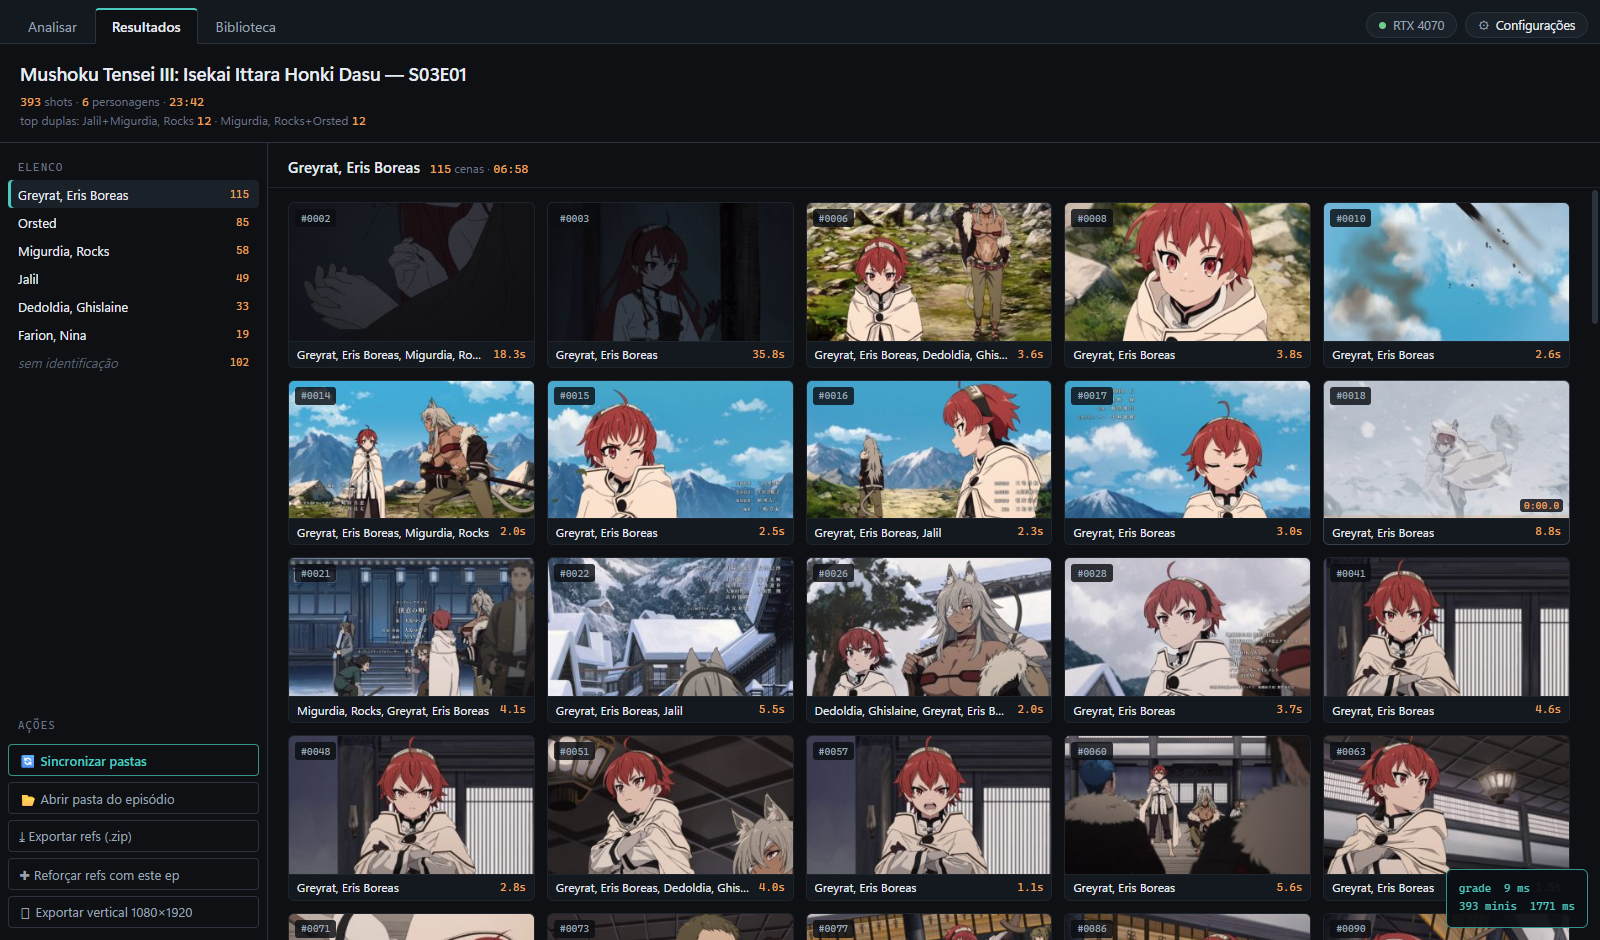
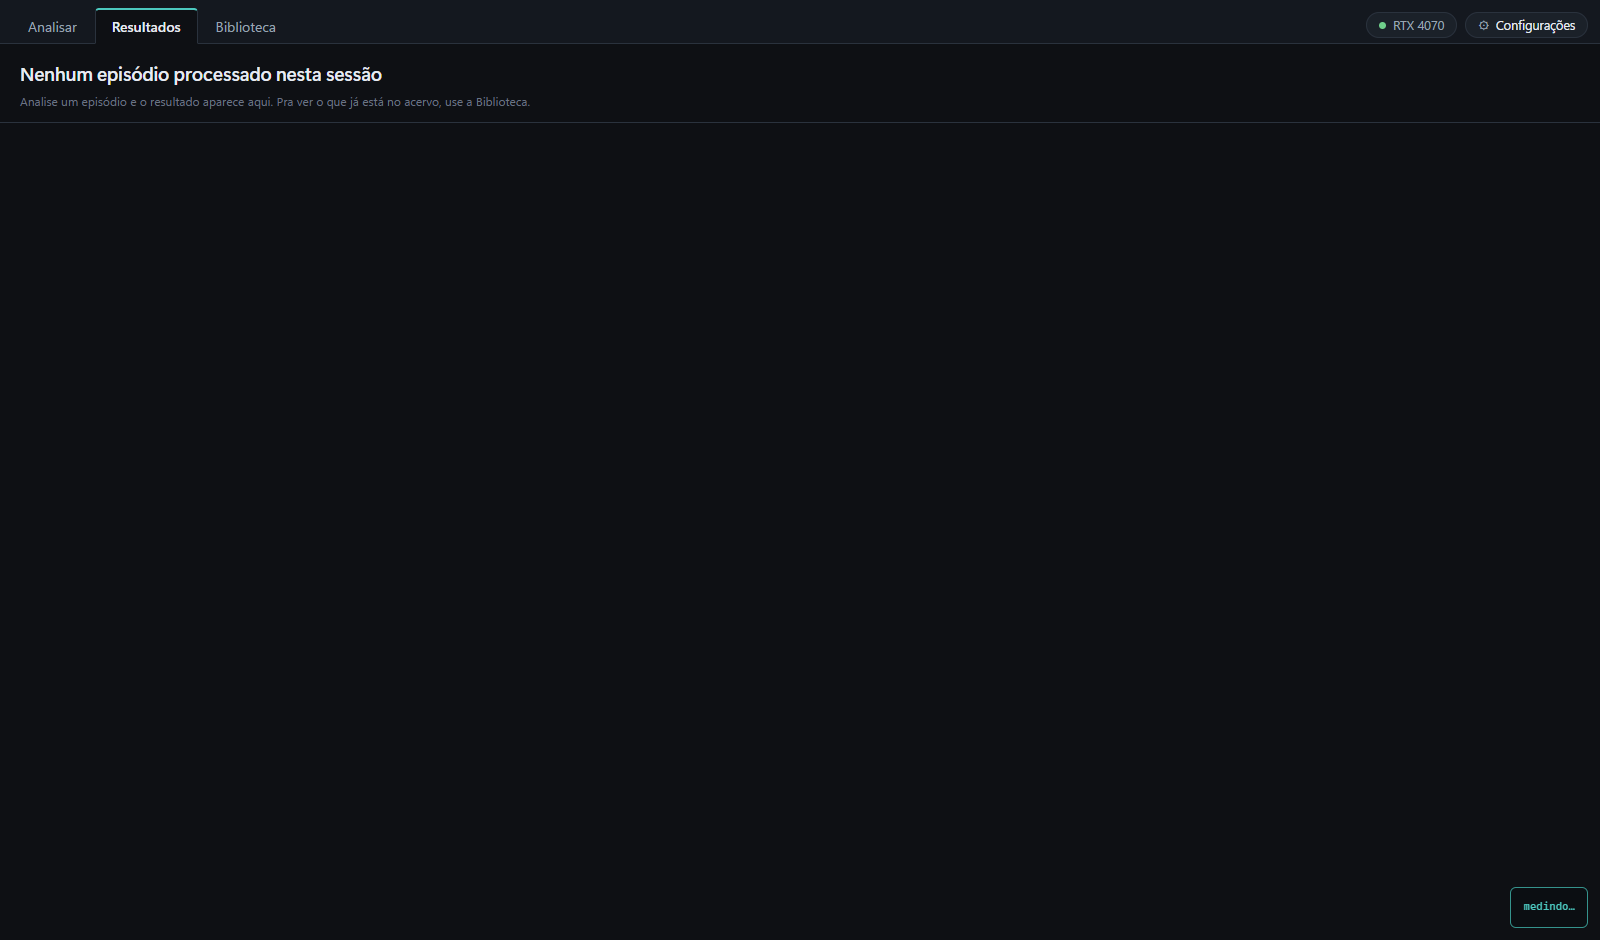
Tres coisas que o Levi viu abrindo o app de verdade
Eu tinha testado tudo por script e nao tinha aberto o app como usuario. As
tres so aparecem assim.

1. RESULTADOS VINHA CHEIA sem ter analisado nada. Eu fiz a aba espelhar o
   episodio aberto na Biblioteca, e isso esta errado: Resultados e da SESSAO
   — mostra o que ESTA execucao produziu. Abrir o app e achar a aba cheia faz
   o usuario duvidar do que esta vendo. Agora diz "Nenhum episodio processado
   nesta sessao" e so se enche quando uma analise TERMINA aqui.

2. ANALISAR VINHA COM PROGRESSO FALSO — 64%, "Cortando cenas 214 de 331",
   tempos, dez etapas. Era o desenho da maquete, que mostra a tela no meio de
   uma analise, e eu deixei os valores no HTML. Agora nasce vazia
   ("Aguardando", "--:--"), o Cancelar so existe durante a analise e a lista
   de etapas so aparece quando ha etapa acontecendo.

3. A ARVORE NAO RECOLHIA. Com um anime da pra viver sem; a Biblioteca existe
   pra guardar VARIOS, e ai uma lista que nunca fecha vira uma parede de
   episodios. Anime e temporada viraram pastas de verdade. Com mais de um
   anime a arvore comeca fechada; com um so, aberta — nao faz sentido
   esconder o unico.

   Detalhe que quase escapou: fechar o anime tem que sumir com os EPISODIOS
   das temporadas dele, nao so com as temporadas. Medido: 4 nos visiveis ->
   1 com o anime fechado -> 4 de volta.

diff --git a/app/ui/web/interface.html b/app/ui/web/interface.html
@@ -173,7 +173,9 @@ body{background:var(--bg);color:var(--txt);font-family:var(--sans);font-size:13p
     color:var(--dim);gap:6px}
 .no:hover{background:var(--surface)}
 .no.viva{background:var(--surface-2);color:var(--txt);box-shadow:inset 3px 0 0 var(--accent)}
-.no .seta{width:9px;color:var(--off);font-size:9px}
+.no .seta{width:9px;color:var(--off);font-size:9px;flex:0 0 9px}
+.no.ramo{cursor:default}
+.no.ramo:hover .seta{color:var(--accent)}
 .no .conta{margin-left:auto;font-family:var(--mono);font-size:11px;color:var(--time)}
 .no.n1{padding-left:10px}.no.n2{padding-left:24px}.no.n3{padding-left:38px}
 /* pasta ausente: itálico apagado, mas continua na lista — quem apagou
@@ -499,24 +501,24 @@ body{background:var(--bg);color:var(--txt);font-family:var(--sans);font-size:13p
         <div class="prog-esq">
           <div class="prog-topo">
             <div class="oque">
-              <span class="titulo" id="p_titulo">Cortando cenas</span>
-              <span class="conta" id="p_conta"><b>214</b> de <b>331</b></span>
+              <span class="titulo" id="p_titulo">Aguardando</span>
+              <span class="conta" id="p_conta"></span>
             </div>
-            <span class="pct" id="p_pct">64%</span>
+            <span class="pct" id="p_pct">—</span>
           </div>
-          <div class="barra"><i style="width:64%"></i><i class="pale" style="width:8%"></i></div>
+          <div class="barra"><i style="width:0%"></i><i class="pale" style="width:0%"></i></div>
           <div class="tempos">
-            <div><span class="r">decorrido</span><span class="v">02:41</span></div>
-            <div><span class="r">resta ~</span><span class="v amb">01:29</span></div>
-            <div><span class="r">ritmo</span><span class="v">1.3 cena/s</span></div>
+            <div><span class="r">decorrido</span><span class="v">--:--</span></div>
+            <div><span class="r">resta ~</span><span class="v amb">--:--</span></div>
+            <div><span class="r">ritmo</span><span class="v">—</span></div>
           </div>
-          <div class="arquivo-atual">escrevendo → Output\S03E02\Farion, Nina\0214.mp4</div>
+          <div class="arquivo-atual"></div>
           <div class="linha" style="gap:8px">
-            <div class="btn perigo">✕&nbsp; Cancelar</div>
+            <div class="btn perigo" id="btn_cancelar" style="display:none">✕&nbsp; Cancelar</div>
             <div class="btn fantasma">📂&nbsp; Abrir pasta de saída</div>
           </div>
         </div>
-        <div class="etapas" id="etapas"></div>
+        <div class="etapas" id="etapas" style="display:none"></div>
       </div>
     </div>
   </div>
@@ -585,10 +587,11 @@ body{background:var(--bg);color:var(--txt);font-family:var(--sans);font-size:13p
   <!-- ============================ RESULTADOS ======================== -->
   <div class="tela" id="resultados">
     <div class="res-topo">
-      <h1 id="r_titulo">Mushoku Tensei III — S03E02</h1>
-      <div class="meta" id="r_meta">carregando…</div>
+      <h1 id="r_titulo">Nenhum episódio processado nesta sessão</h1>
+      <div class="meta" id="r_meta">Analise um episódio e o resultado aparece aqui.
+        Pra ver o que já está no acervo, use a Biblioteca.</div>
     </div>
-    <div class="res-corpo">
+    <div class="res-corpo" id="res_corpo" style="display:none">
       <aside class="elenco">
         <div class="sobrancelha">Elenco</div>
         <div class="lista" id="r_elenco"></div>
@@ -890,6 +893,8 @@ function montaEtapas(){
 
 function zeraProgresso(){
   t0Analise = performance.now(); ritmo = null; ultimo = null; ultimoPct = 0;
+  document.getElementById('btn_cancelar').style.display = '';
+  document.getElementById('etapas').style.display = '';
   for (const k in pintado) delete pintado[k];
   document.querySelectorAll('.etapa').forEach(e => {
     e.className = 'etapa';
@@ -1083,7 +1088,7 @@ document.querySelectorAll('.acoes .btn').forEach(b => {
     });
   });
 });
-document.querySelector('.btn.perigo').addEventListener('click',
+document.getElementById('btn_cancelar').addEventListener('click',
   () => ponte && ponte.cancelar());
 
 // ---- Resultados -------------------------------------------------------
@@ -1352,6 +1357,8 @@ function carregaConfig(){
 // A grade é sempre desenhada por AQUI: filtro e ordem são estado, não dois
 // caminhos separados de montar cartão. Assim trocar de episódio, filtrar por
 // personagem e reordenar não podem discordar entre si.
+// A aba Resultados só existe depois que ALGO foi analisado nesta sessão.
+let analisouNestaSessao = false;
 let filtro = null;      // null = todas · '__sem__' = sem identificação
 let ordem = 'crono';
 let epAberto = null;
@@ -1395,6 +1402,23 @@ document.querySelector('.ordem .trilho').addEventListener('click', e => {
   desenhaGrade();
 });
 
+function recolhe(ramo, fechar){
+  ramo.classList.toggle('fechado', fechar);
+  ramo.querySelector('.seta').textContent = fechar ? '▸' : '▾';
+  const chave = ramo.dataset.ramo;
+  document.querySelectorAll(`#arvore .no[data-pai]`).forEach(f => {
+    // fecha filhos E netos: fechar o anime tem que sumir com os episódios
+    // das temporadas dele, não só com as temporadas
+    if (!f.dataset.pai.startsWith(chave)) return;
+    if (fechar){ f.style.display = 'none'; return; }
+    // ao abrir, só reaparece quem não está dentro de outro ramo fechado
+    const dono = document.querySelector(`#arvore .no[data-ramo="${f.dataset.pai}"]`);
+    f.style.display = (dono && dono.classList.contains('fechado')) ? 'none' : '';
+    if (f.classList.contains('ramo') && f.classList.contains('fechado'))
+      recolhe(f, true);
+  });
+}
+
 function carregaAcervo(){
   ponte.acervo(json => {
     const resp = JSON.parse(json);
@@ -1416,19 +1440,33 @@ function carregaAcervo(){
       arv.innerHTML = '<div class="no n1" style="font-style:italic">Nada cortado ainda</div>';
       return;
     }
-    arv.innerHTML = animes.map(a =>
-      `<div class="no n1" title="${a.oficial}"><span class="seta">▾</span>${a.titulo}<span class="conta">${a.cenas}</span></div>` +
-      a.temporadas.map(t =>
-        `<div class="no n2"><span class="seta">▾</span>Temporada ${t.temporada}<span class="conta">${t.cenas}</span></div>` +
+    // A árvore recolhe. Com um anime só dá pra viver sem, mas a Biblioteca
+    // existe pra guardar VÁRIOS — e aí uma lista que nunca fecha vira uma
+    // parede de episódios. Anime e temporada viram pastas de verdade.
+    arv.innerHTML = animes.map((a, ai) =>
+      `<div class="no n1 ramo" data-ramo="a${ai}" title="${a.oficial}">` +
+      `<span class="seta">▾</span>${a.titulo}<span class="conta">${a.cenas}</span></div>` +
+      a.temporadas.map((t, ti) =>
+        `<div class="no n2 ramo" data-ramo="a${ai}t${ti}" data-pai="a${ai}">` +
+        `<span class="seta">▾</span>Temporada ${t.temporada}` +
+        `<span class="conta">${t.cenas}</span></div>` +
         t.eps.map(e =>
           `<div class="no n3${e.ok ? '' : ' sumido'}" data-ep="${e.id}"
+                data-pai="a${ai}t${ti}"
                 data-rot="${e.titulo} — S${String(e.temporada).padStart(2,'0')}E${String(e.episodio).padStart(2,'0')}">` +
           `Episódio ${String(e.episodio).padStart(2,'0')}${e.ok ? '' : '  (sumiu)'}` +
           `<span class="conta">${e.cenas}</span></div>`).join('')
       ).join('')
     ).join('');
 
+    // Com mais de um anime, começa tudo fechado: a lista inteira aberta é
+    // uma parede. Com um só, aberto — não faz sentido esconder o único.
+    if (animes.length > 1)
+      arv.querySelectorAll('.no.n1.ramo').forEach(n => recolhe(n, true));
+
     arv.addEventListener('click', ev => {
+      const ramo = ev.target.closest('.no.ramo');
+      if (ramo){ recolhe(ramo, !ramo.classList.contains('fechado')); return; }
       const no = ev.target.closest('.no[data-ep]'); if (!no) return;
       abreEpisodio(no.dataset.ep, no.dataset.rot, no);
     });
@@ -1445,7 +1483,6 @@ function abreEpisodio(id, rotulo, no){
   document.querySelectorAll('#arvore .no').forEach(x => x.classList.remove('viva'));
   if (no) no.classList.add('viva');
   document.getElementById('titulo').textContent = rotulo;
-  document.getElementById('r_titulo').textContent = rotulo;
   document.getElementById('meta').textContent = 'carregando…';
   // some com a cena aberta: ela é do episódio ANTERIOR
   document.getElementById('tv').removeAttribute('src');
@@ -1506,6 +1543,11 @@ function carregaCenas(id, depois){
     for (const c of cenas) if (c.quem.length === 2)
       duplas[[...c.quem].sort().join('+')] = (duplas[[...c.quem].sort().join('+')]||0)+1;
     const topo = Object.entries(duplas).sort((a,b)=>b[1]-a[1]).slice(0,2);
+    // A aba Resultados é da SESSÃO, não do acervo: ela só se enche quando
+    // uma análise TERMINA aqui. Carregar o episódio na Biblioteca não pode
+    // preenchê-la — abrir o app sem ter analisado nada e achar a aba cheia
+    // faz o usuário duvidar do que está vendo.
+    if (!analisouNestaSessao) return;
     document.getElementById('r_meta').innerHTML =
       `<b>${cenas.length}</b> shots · <b>${nomes.length}</b> personagens · <b>${relogio(total)}</b>` +
       (topo.length ? '<br>top duplas: ' + topo.map(([d,k]) => `${d} <b>${k}</b>`).join(' · ') : '');
@@ -1650,6 +1692,16 @@ new QWebChannel(qt.webChannelTransport, canal => {
   ponte.progresso.connect(pinta);
   ponte.terminou.connect(como => {
     recado(como === 'cancelado' ? 'Análise cancelada.' : 'Análise terminada.');
+    document.getElementById('btn_cancelar').style.display = 'none';
+    if (como === 'pronto' || como === 'batizado'){
+      // agora sim: houve análise nesta sessão
+      analisouNestaSessao = true;
+      document.getElementById('res_corpo').style.display = '';
+      document.getElementById('r_titulo').textContent =
+        document.getElementById('titulo').textContent;
+      epAberto = null;
+      carregaAcervo();
+    }
     if (como !== 'cancelado'){
       document.getElementById('p_pct').textContent = '100%';
       document.querySelector('.barra i').style.width = '100%';
